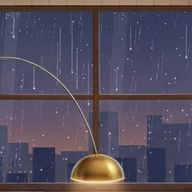
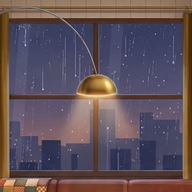
0.8.1: el ícono nuevo, con la lámpara encendida
- Los íconos salen de la imagen del P-007 (Gemini): la ventana con lluvia y la lámpara de arco encendida en el
  medio, entera, con las cortinas y el sillón.
- herramientas/iconos.py arma los cinco íconos desde esa imagen.
- Documentación: el P-007 cerrado, con lo que Gemini cambió de más; el README cuenta el mahjong.

Closes #54

Claude-Session: https://claude.ai/code/session_01PXLdeMJXsQ1kXWNwCeY5Gb

diff --git a/sw.js b/sw.js
@@ -8,7 +8,7 @@
 
    El sitio, efevali.github.io, es el mismo de Kasa: lo guardado lleva el prefijo «coleccion-» y solo se borra lo
    propio, más lo que guardaba el Fogonazo publicado («fogonazo-»), al que esta versión reemplaza. */
-const VERSION = '0.8.0';
+const VERSION = '0.8.1';
 const FECHA = '29/10/2026';
 const CACHE = 'coleccion-v' + VERSION;
 const ARCHIVOS = [

diff --git a/herramientas/iconos.py b/herramientas/iconos.py
@@ -1,20 +1,19 @@
-# Provisional icons of the collection: the rainy window, cropped from the room (docs/sala/arte/sala-v2.png).
-# A draft to move on; the final icon waits for the collection's name (see docs/decisiones.md).
+# The icons of the collection: the rainy window with the arc lamp (P-007, made with Gemini from the room's window).
+# Provisional until the collection has a name (see docs/decisiones.md).
 #   python3 herramientas/iconos.py
+# The image goes whole in both kinds: the common icon shows it all; Android's adaptive (maskable) one shows the
+# central part inside its circle or rounded square, where the lamp and the window are.
 from pathlib import Path
 from PIL import Image
 
 ROOT = Path(__file__).resolve().parent.parent
-room = Image.open(ROOT / 'docs/sala/arte/sala-v2.png').convert('RGB')
+art = Image.open(ROOT / 'docs/sala/arte/P-007_icono.jpg').convert('RGB')
 out = ROOT / 'iconos'
 out.mkdir(exist_ok=True)
 
-# the window panes, square; the maskable one has room around it, because Android shows only the central 80 %
-ANY = (905, 268, 1445, 808)
-MASKABLE = (860, 223, 1490, 853)
-
 for size in (192, 512):
-    room.crop(ANY).resize((size, size), Image.LANCZOS).save(out / f'icono-{size}.png', optimize=True)
-    room.crop(MASKABLE).resize((size, size), Image.LANCZOS).save(out / f'icono-maskable-{size}.png', optimize=True)
-room.crop(ANY).resize((180, 180), Image.LANCZOS).save(out / 'apple-touch-icon.png', optimize=True)
+    ic = art.resize((size, size), Image.LANCZOS)
+    ic.save(out / f'icono-{size}.png', optimize=True)
+    ic.save(out / f'icono-maskable-{size}.png', optimize=True)
+art.resize((180, 180), Image.LANCZOS).save(out / 'apple-touch-icon.png', optimize=True)
 print('íconos en', out)

diff --git a/docs/imagenes.md b/docs/imagenes.md
@@ -28,22 +28,6 @@ Cómo se piden, se revisan y se montan las imágenes de la colección. Las regla
 - **Se revisa antes de aprobar:** que respete la composición, el orden y los colores pedidos; la lógica de los objetos; que lo importante quede en la franja central; y, en las piezas, que el fondo sea parejo y el recorte salga limpio.
 - **Lo aprobado se guarda en la carpeta `arte/` de su parte**, y se cuenta en su README. Lo que reemplaza a otra imagen la reemplaza en el repositorio: la anterior queda en el historial de Git.
 
-## Pedidos en curso
-
-### P-007 · El ícono, con la lámpara más arriba
-
-Imágenes, en este orden: [el ícono actual](sala/bocetos/P-007-icono-actual.png) (el recorte de la ventana de la sala) y [el boceto](sala/bocetos/P-007-boceto-lampara.png), un retoque a mano con la lámpara subida (solo vale por la posición: tiene marcas del retoque). Texto:
-
-> Te mando dos imágenes. La primera es el ícono de mi app: una ventana de noche con lluvia, la ciudad atrás y una lámpara de arco dorada adelante. La segunda es un boceto hecho a mano que muestra dónde quiero la lámpara; el boceto tiene marcas del retoque, así que tomalo solo como guía de posición.
->
-> Necesito la primera imagen con un solo cambio: la lámpara de arco (la pantalla dorada y su brazo curvo) subida hasta la altura del boceto, con la pantalla colgando un poco por debajo del travesaño del medio de la ventana.
->
-> - Todo lo demás, exactamente igual: la ventana, el marco, el parante del medio, el travesaño, la lluvia, las gotas, los edificios, el cielo, los colores, la luz y el encuadre.
-> - Donde antes estaba la pantalla, abajo, tiene que verse la ventana como sigue en el resto: el marco de abajo, el parante del medio y los edificios.
-> - El brazo de la lámpara entra por el borde izquierdo y baja en curva hasta la pantalla, como en el boceto; el brazo viejo no tiene que quedar.
-> - Que la pantalla tire una luz cálida suave hacia abajo.
-> - Imagen cuadrada, sin texto ni marcos.
-
 ## Pedidos cerrados
 
 | Pedido | Qué | Con qué IA | Vigente |
@@ -53,6 +37,7 @@ Imágenes, en este orden: [el ícono actual](sala/bocetos/P-007-icono-actual.png
 | P-004 | La escena de la pantalla-instrumento de Fogonazo | ChatGPT (con Gemini se apartó del boceto) | [`fogonazo/arte/P-004_escena-instrumento.png`](fogonazo/arte/P-004_escena-instrumento.png) |
 | P-005 | Especiales y obstáculos de Fogonazo | Gemini, ya en una conversación común | [`fogonazo/arte/P-005_especiales-obstaculos.jpg`](fogonazo/arte/P-005_especiales-obstaculos.jpg) |
 | P-006 | El fondo de la partida del mahjong: la mesa ratona desde arriba | Gemini, a la primera | [`mahjong/arte/P-006_fondo-mesa.jpg`](mahjong/arte/P-006_fondo-mesa.jpg) |
+| P-007 | El ícono con la lámpara más arriba | Gemini: subió la lámpara, pero rehízo la imagen con un encuadre más abierto (ver abajo) | [`sala/arte/P-007_icono.jpg`](sala/arte/P-007_icono.jpg) |
 
 ## Un pedido que salió a la primera
 
@@ -74,3 +59,17 @@ El P-006, como modelo: Gemini lo resolvió en el primer intento con las dos imá
 > - A la derecha, a media altura, la tetera marrón de cerámica de la referencia, vista desde arriba: la tapa con su perilla y el pico apuntando hacia arriba. Cortada por el borde derecho de la imagen.
 > - Todo lo demás, solo madera: nada en el centro, ni en la esquina de arriba a la derecha ni en la de abajo a la derecha.
 > - Sin texto ni letras, sin fichas de mahjong, sin personas ni manos, sin marcos.
+
+## Un pedido de cambio puntual que se rehízo
+
+El P-007 pedía cambiar una sola cosa y dejar todo lo demás igual. Gemini subió la lámpara, pero rehízo la imagen: abrió el encuadre (la barra de la cortina, las cortinas, el sillón), redibujó la ciudad y la lluvia, apoyó la pantalla sobre el travesaño y sumó un cono de luz. El resultado se aprobó igual. Para un cambio que de verdad tiene que dejar todo idéntico, conviene pedirlo sobre la imagen grande (como el P-001, sobre la sala) y no sobre un recorte. Imágenes, en este orden: [el ícono actual](sala/bocetos/P-007-icono-actual.png) (el recorte de la ventana de la sala) y [el boceto](sala/bocetos/P-007-boceto-lampara.png), un retoque a mano con la lámpara subida (solo vale por la posición: tiene marcas del retoque). Texto:
+
+> Te mando dos imágenes. La primera es el ícono de mi app: una ventana de noche con lluvia, la ciudad atrás y una lámpara de arco dorada adelante. La segunda es un boceto hecho a mano que muestra dónde quiero la lámpara; el boceto tiene marcas del retoque, así que tomalo solo como guía de posición.
+>
+> Necesito la primera imagen con un solo cambio: la lámpara de arco (la pantalla dorada y su brazo curvo) subida hasta la altura del boceto, con la pantalla colgando un poco por debajo del travesaño del medio de la ventana.
+>
+> - Todo lo demás, exactamente igual: la ventana, el marco, el parante del medio, el travesaño, la lluvia, las gotas, los edificios, el cielo, los colores, la luz y el encuadre.
+> - Donde antes estaba la pantalla, abajo, tiene que verse la ventana como sigue en el resto: el marco de abajo, el parante del medio y los edificios.
+> - El brazo de la lámpara entra por el borde izquierdo y baja en curva hasta la pantalla, como en el boceto; el brazo viejo no tiene que quedar.
+> - Que la pantalla tire una luz cálida suave hacia abajo.
+> - Imagen cuadrada, sin texto ni marcos.

diff --git a/README.md b/README.md
@@ -10,7 +10,7 @@ Una colección de minijuegos para el celular, en horizontal, que se instala desd
 ## Estado
 
 - **Publicada** en https://efevali.github.io/fogonazo/, que se abre en Chrome y se instala desde los ajustes de la sala (el equipo de audio) o desde el menú ⋮ → «Instalar app». Funciona sin conexión. La 0.1.0 reemplazó a Fogonazo como juego único (0.6.1); qué trae cada versión está en el [registro de cambios](CHANGELOG.md).
-- **Qué tiene:** la sala con sus objetos activos; Fogonazo jugable (instrumento, mapa, los 30 niveles hechos a mano con sus especiales y obstáculos, y el zen), con su música y sus efectos; los ajustes de sonido comunes y la instalación. Nombre e ícono son provisorios.
+- **Qué tiene:** la sala con sus objetos activos; Fogonazo jugable (instrumento, mapa, los 30 niveles hechos a mano con sus especiales y obstáculos, y el zen); el mahjong en la mesa ratona (el estuche y seis tableros, en zen), cada juego con su música y sus efectos; los ajustes comunes (sonido, versión e instalación). Nombre e ícono son provisorios.
 - **Lo que sigue**, en [la colección](docs/coleccion.md#lo-que-sigue).
 
 ## Dónde está cada cosa
@@ -51,7 +51,7 @@ Hace falta Node 18 o más nuevo; para las capturas, `npm install` y, la primera 
 - `herramientas/capturas.js`: recorre la app como en el teléfono (sala, ajustes, Fogonazo, mapa, partida, pausa y vuelta), verifica el «atrás» de Android y que abra sin conexión, y saca una captura de cada pantalla en `dist/capturas/`. Se corre antes de publicar.
 - `herramientas/version.js`: sube la versión (`parche`, `menor` o `mayor`) en `sw.js`, con la fecha, y rehace la lista de archivos que el *service worker* guarda. Sin argumento, solo rehace la lista: hace falta cada vez que se suma o se quita un archivo de la app.
 - `herramientas/mahjong/probar.js`: verifica los tableros del mahjong y juega cada reparto al azar, para dar una idea de la dificultad. `herramientas/mahjong/boceto-mahjong.html` y `composicion-p006.html`: los bocetos S-19 y S-20 y la composición del P-006.
-- `herramientas/iconos.py`: los íconos provisorios, la ventana con lluvia recortada de la imagen de la sala (Python con Pillow).
+- `herramientas/iconos.py`: los íconos provisorios, desde la imagen del P-007, la ventana con la lámpara (Python con Pillow).
 - `herramientas/probar.js`: juega 180 partidas con el bot y 6 partidas zen de 300 jugadas, y verifica que la placa quede siempre consistente. Se corre después de tocar el motor de Fogonazo.
 - `herramientas/calibrar.js`: recalibra la dificultad de Fogonazo (`node herramientas/calibrar.js 400 0.62 16,17,18`: 400 partidas por nivel, con un bot que elige la mejor jugada el 62 % de las veces). Sin lista de niveles, recalibra los 30.
 - `herramientas/medir.js`, `modos.js`, `bots.js` y `ayuda_piezas.js`: la tasa de victoria con los valores actuales, cómo quedan los modos de dificultad, la comparación entre bots y el efecto de la ayuda de piezas del pedido.

diff --git a/docs/sala/README.md b/docs/sala/README.md
@@ -4,7 +4,7 @@ La pantalla de inicio de la colección: un living de los 70 ilustrado donde algu
 
 ## Estado
 
-- **Imagen base vigente:** [`arte/sala-v2.png`](arte/sala-v2.png), de 2752 × 1536, generada con Gemini. Vista frontal, al atardecer con lluvia.
+- **Arte vigente:** el ícono, [`arte/P-007_icono.jpg`](arte/P-007_icono.jpg). **Imagen base:** [`arte/sala-v2.png`](arte/sala-v2.png), de 2752 × 1536, generada con Gemini. Vista frontal, al atardecer con lluvia.
 - **En la app** desde la 0.1.0: es la pantalla de inicio, en [`sala/`](../../sala/index.html) (fuera de `docs/`). Producto la probó en el teléfono como prototipo: los objetos activos se ven bien, y «tiene aspecto de juego profesional».
 
 ## Qué hace la sala
@@ -33,7 +33,7 @@ La pantalla de inicio de la colección: un living de los 70 ilustrado donde algu
 | [S-05](bocetos/S-05-composicion-sala.jpg) | La composición de la sala completa que se le pasó a la IA | Vigente como guía para futuras ediciones de la imagen |
 | S-11 | [Los pasos para instalar](bocetos/S-11-instalar-pasos.jpg), cuando Chrome no ofrece su cuadro. Los ajustes de ese boceto quedaron superados por S-14 | Aprobado (27/10) |
 | S-14 | Los ajustes como rack de audio, para la 0.5.0: [al día](bocetos/S-14a-ajustes-al-dia.jpg) y [con versión nueva](bocetos/S-14b-ajustes-version-nueva.jpg) (el número es de ejemplo). Capturas de la app | Aprobado (29/10), sin los tornillos del boceto |
-| P-007 | El ícono con la lámpara más arriba y la ventana igual: [el ícono actual](bocetos/P-007-icono-actual.png) y [el boceto](bocetos/P-007-boceto-lampara.png), un retoque a mano que solo vale por la posición. El texto, en [imágenes](../imagenes.md#p-007--el-ícono-con-la-lámpara-más-arriba) | En curso |
+| P-007 | El ícono con la lámpara más arriba: [el ícono anterior](bocetos/P-007-icono-actual.png) y [el boceto](bocetos/P-007-boceto-lampara.png), un retoque a mano que solo vale por la posición; el texto, en [imágenes](../imagenes.md#pedidos-cerrados). [La entrega](arte/P-007_icono.jpg), de 2048 × 2048, va entera en los íconos (`herramientas/iconos.py`) | Aprobado (29/10), con el encuadre más abierto que dio Gemini |
 | S-12 | Los botones de volver, abajo a la derecha, en toda la colección: en la sala, [«Salir ▶»](bocetos/S-12a-sala-salir.jpg), con la flecha hacia afuera, como a una puerta; en Fogonazo, «◀ Volver» (ver [sus bocetos](../fogonazo/README.md#bocetos)). Capturas de la app con los cambios | Aprobado (27/10), con la flecha de «Salir» pasada a la derecha |
 
 Las referencias de estilo de terceros (ilustraciones isométricas, fotos de livings de época, el recorte de revista) no se guardan en este repositorio, que es público.

diff --git a/docs/decisiones.md b/docs/decisiones.md
@@ -27,7 +27,7 @@ Por qué la colección es como es: cada decisión vigente con su fecha y su moti
 - **La colección reemplaza directamente a la 0.6.1** (27/10), en la misma dirección. Es lo que menos trabajo exige: un solo manifest y un solo *service worker*, sin mudanza de rutas al final. *Descartado:* armarla en paralelo en una subcarpeta.
 - **Numeración nueva, desde la 0.1.0** (27/10). *Descartado:* seguir con la 0.7.0.
 - **«Minijuegos», nombre provisorio** (27/10), bajo el ícono y en los textos, hasta que la colección tenga nombre.
-- **Ícono provisorio: la ventana con lluvia de la sala**, recortada de la imagen, sin IA (27/10). Es un borrador para avanzar; el definitivo queda pendiente, quizás hasta tener el nombre. *Descartados:* el LED en pixel art del Fogonazo publicado, y alguien de espaldas mirando la ventana (S-11, de pie o de rodillas en el sillón): Producto, al verlo, no lo consideró una buena idea.
+- **Ícono provisorio: la ventana con lluvia de la sala** (27/10), hasta tener el nombre. Primero, recortada de la imagen de la sala; desde la 0.8.1, la ventana con la lámpara de arco más arriba, encendida sobre el travesaño (P-007, 29/10), entera, con las cortinas y el sillón. *Descartado:* recortarla más cerca de la ventana. *Descartados:* el LED en pixel art del Fogonazo publicado, y alguien de espaldas mirando la ventana (S-11, de pie o de rodillas en el sillón): Producto, al verlo, no lo consideró una buena idea.
 - **Los ajustes de la colección, en el equipo de audio** (27/10, S-11): sonido e instalar. Los volúmenes van de 0 a 10, como los diez LEDs de Fogonazo, y la lluvia se apaga llevándola a 0. *Descartado:* el botón «Lluvia de fondo» del prototipo.
 - **Los ajustes, un rack de audio de los 70** (29/10, S-14, #41): más alto, con laterales de nogal y un módulo por tema (sonido, sistema, instalar) y un hueco con tapa ciega para lo que venga. Los volúmenes, en medidores de diez LEDs como los de Fogonazo. *Descartados:* los deslizadores del frente de receiver y los tornillos de rack del boceto, que se veían ovalados; si hace falta más realismo, más adelante una imagen de IA.
 - **Vuelven la versión y «Actualizar»** (29/10, #40), en el módulo «Sistema» del rack: es útil saber qué versión se tiene y poder pedir la nueva sin cerrar la app del todo. Revierte el descarte del 27/10 (la versión fuera de ese panel).

diff --git a/docs/coleccion.md b/docs/coleccion.md
@@ -48,7 +48,7 @@ Sala ── banco de electrónica ──► Fogonazo
 
 - **En GitHub Pages**, en https://efevali.github.io/fogonazo/, la dirección del Fogonazo publicado. La colección lo **reemplazó directamente** con su 0.1.0, sin publicarse antes en paralelo: es lo que menos trabajo de mantenimiento exige. La app instalada en el teléfono es la colección en desarrollo.
 - **Numeración nueva**, desde la 0.1.0 (ver [CHANGELOG](../CHANGELOG.md)). La versión nueva se baja sola y entra al cerrar la app del todo, o al tocar «Actualizar» en los ajustes.
-- **Nombre e ícono provisorios:** «Minijuegos» y la ventana con lluvia de la sala. Los definitivos, cuando la colección tenga nombre.
+- **Nombre e ícono provisorios:** «Minijuegos» y la ventana con lluvia de la sala, con la lámpara de arco encendida (P-007). Los definitivos, cuando la colección tenga nombre.
 - **Ajustes de la colección:** un rack de audio que abre el equipo de audio de la sala (boceto S-14), con un módulo por tema: sonido, sistema (la versión instalada y «Actualizar» cuando hay una nueva) y, en Chrome sin instalar, «Instalar». Los ajustes que vengan suman su módulo.
 - **Un solo repositorio** para toda la colección. Se renombra cuando tenga nombre; la dirección de GitHub Pages no se redirige, y por eso conviene hacerlo mientras haya pocos jugadores.
 - **Público esperado:** Producto, su entorno y quizás unas cien personas de boca en boca, con una experiencia razonablemente sólida. Solo teléfonos, sin varios dispositivos por jugador.

diff --git a/CHANGELOG.md b/CHANGELOG.md
@@ -2,6 +2,10 @@
 
 Las versiones publicadas de la colección, de la más nueva a la más vieja. Sigue el formato de [Keep a Changelog](https://keepachangelog.com/es-ES/1.1.0/) y el versionado semántico del [README](README.md#versiones). Cada versión se encuentra en el historial por el título de su commit, que empieza con el número.
 
+## 0.8.1 — 29/10/2026
+
+- **Ícono nuevo:** la ventana con lluvia, ahora con la lámpara de arco encendida en el medio (P-007). En el teléfono, Chrome cambia el ícono de la app instalada cuando le toca, y eso puede tardar unos días.
+
 ## 0.8.0 — 29/10/2026
 
 - Mahjong: **una tortuga de 96 fichas**, con fichas del tamaño de las de los otros tableros (S-22). La clásica de 144 sigue, como «tortuga grande»; son seis tarjetas en el estuche y la última se alcanza deslizando la fila.
